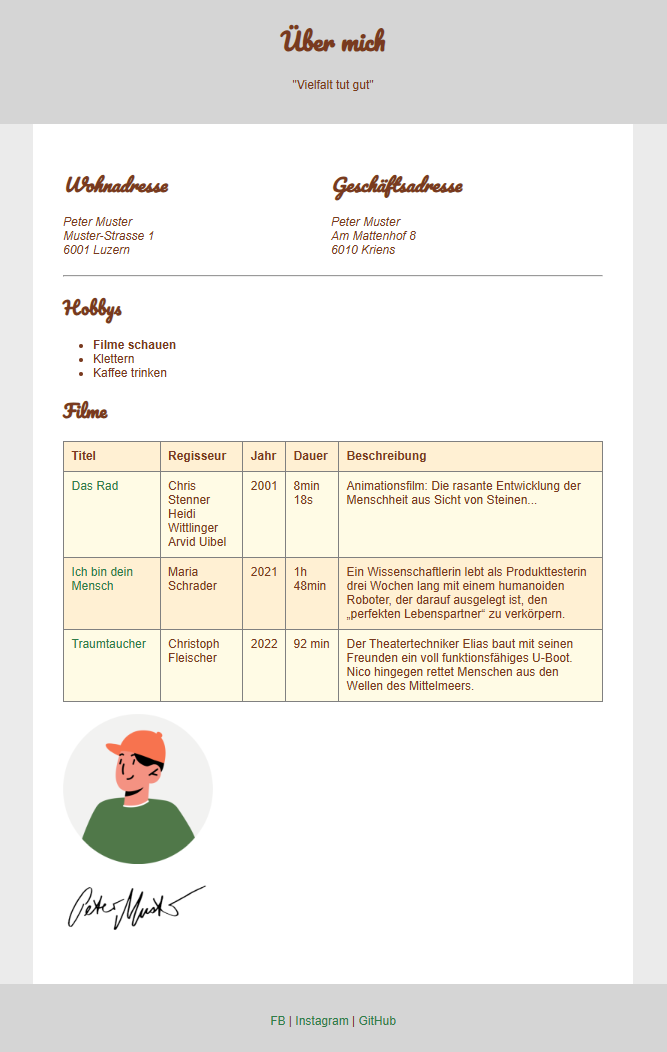
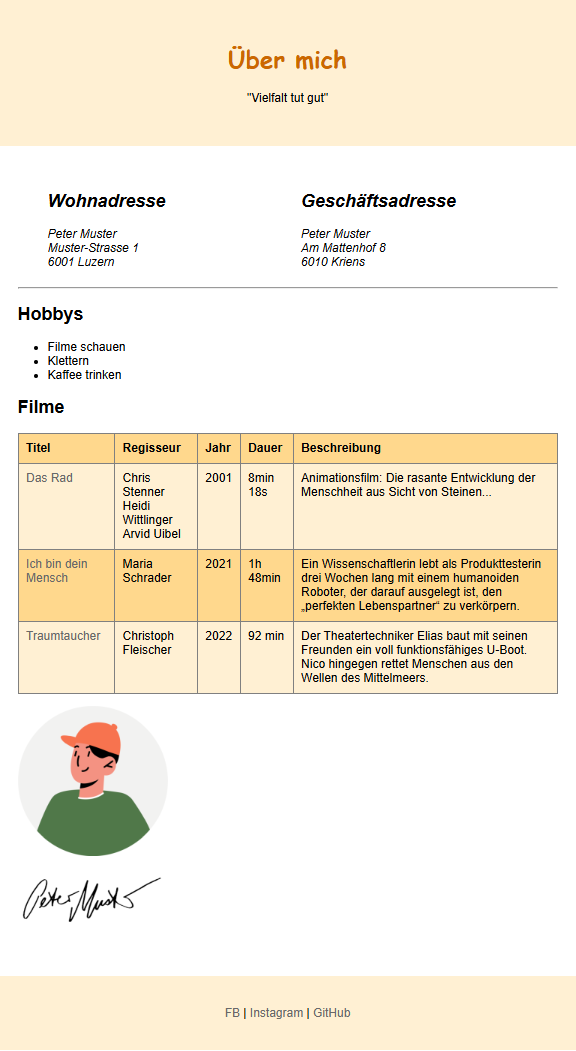
GITBOOK-169: change request with no subject merged in GitBook

diff --git a/tag-1/03-html/03-tabellen-and-listen.md b/tag-1/03-html/03-tabellen-and-listen.md
@@ -6,7 +6,7 @@ Listen verfügen über eine spezielle Anordnung der HTML-Elemente. Jede Liste wi
 
 {% columns %}
 {% column width="58.333333333333336%" %}
-HTML-Code:
+**HTML-Code:**
 
 ```html
 <ul>
@@ -20,12 +20,10 @@ HTML-Code:
     <li>Dritter Punkt</li>
 </ol>
 ```
-
-HTML-Code:
 {% endcolumn %}
 
 {% column width="41.666666666666664%" %}
-Resultat:
+**Resultat:**
 
 
 
@@ -37,7 +35,7 @@ Die Listen kann man beliebig verschachteln und die Listentypen auch mischen:
 
 {% columns %}
 {% column width="58.333333333333336%" %}
-HTML-Code:
+**HTML-Code:**
 
 ```html
 <ul>
@@ -66,12 +64,10 @@ HTML-Code:
     </li>
 </ol>
 ```
-
-HTML-Code:
 {% endcolumn %}
 
 {% column width="41.666666666666664%" %}
-Resultat:
+**Resultat:**
 
 
 
@@ -81,9 +77,9 @@ Resultat:
 
 ## Tabellen
 
-Eine Tabelle ist eine strukturierte Zusammenstellung von Daten in Spalten und Reihen.&#x20;
+Eine Tabelle ist eine strukturierte Zusammenstellung von Daten in Spalten und Reihen:&#x20;
 
-<div align="left"><img src="../../.gitbook/assets/tabelle (1).png" alt="Tabelle" width="344"></div>
+<table><thead><tr><th width="120">Name</th><th width="120">Alter</th></tr></thead><tbody><tr><td>Petra</td><td>15</td></tr><tr><td>Marion</td><td>18</td></tr><tr><td>Martin</td><td>17</td></tr></tbody></table>
 
 Der Inhalt jeder Tabelle wird von einem `<table>`-Tag umschlossen:
 
@@ -112,7 +108,7 @@ Wenn du den Code z.B. mit [Codepen](https://codepen.io/pen/) testest, wirst du f
 
 <table data-header-hidden><thead><tr><th width="90"></th><th width="90"></th><th width="90"></th><th width="90"></th><th width="90"></th><th width="90"></th><th width="90"></th><th width="90"></th></tr></thead><tbody><tr><td>Name</td><td>Alter</td><td>Petra</td><td>15</td><td>Marion</td><td>18</td><td>Martin</td><td>17</td></tr></tbody></table>
 
-#### Tabellen-Zeilen
+#### Tabellen-Zeilen (Rows)
 
 Um die Zellen in Reihe zu unterteilen, nutzen wir das `<tr>`-Tag ('table row'):
 
@@ -137,7 +133,7 @@ Um die Zellen in Reihe zu unterteilen, nutzen wir das `<tr>`-Tag ('table row'):
 </table>
 ```
 
-#### Spalten-Überschriften
+#### Spalten-Überschriften (Headings)
 
 Die erste Reihe eine Tabelle enthält oft keine Daten, sondern die Spaltenüberschriften. Dafür ist das `<th>`-Tag vorgesehen ('th' steht für 'Table Heading'):
 

diff --git a/tag-2/03-gestaltung/aufgaben.md b/tag-2/03-gestaltung/aufgaben.md
@@ -10,7 +10,7 @@ Füge deiner Webseite `about-me.html` eine individuelle Schrift hinzu:&#x20;
 
 ## Farben
 
-Nutze die [1. Flexbox-Aufgabe](broken-reference) für folgende Experimente:&#x20;
+Nutze die [1. Flexbox-Aufgabe](/broken/pages/-MMuVzA5N6G_vWOakQZw) für folgende Experimente:&#x20;
 
 1. Untersuche **im Browser** die Quader in der Flexbox, wähle eine andere Farbe mit dem Farbmischer und kopiere den neuen Wert in dein CSS. Probiere die rgb(...)- und die #xxxxxx-Variante aus.
 2. Mische eine Hintergrundfarbe für das ganze Dokument (`<body>`-Element) mittels der rgb()-Funktion.
@@ -23,11 +23,11 @@ Nutze die [1. Flexbox-Aufgabe](broken-reference) für folgende Experimente:&#x20
 
 ## Einheiten (optional)
 
-1. Skaliere ein Bild in deiner Seite "Über mich" mit verschiedenen Einheiten: `px, %, vw`&#x20;
-2. Füge ein breites Bild ein und mache das Fenster so schmal, bis das Bild nicht mehr Platz hat. Was passiert? Teste nun das gleiche, wenn du für das Bild `max-width: 100%` definierst.
-3. Teste zusätzlich zu `width` die CSS-Eigenschaft `min-width: 50%` oder `max-width: 50%` an einem Element.
+1. **Skaliere** ein Bild in deiner Seite "Über mich" mit verschiedenen Einheiten: `px, %, vw`&#x20;
+2. Teste, was `border-radius: 50%;` mit deinem Portraitbild macht.
+3. **Zu breite Bilder:** Füge ein breites Bild ein und mache das Fenster so schmal, bis das Bild nicht mehr Platz hat. Was passiert? Teste nun das gleiche, wenn du für alle Bilder `max-width: 100%` definierst. Welchen Selektor brauchst du, damit die Regel für alle Bilder gilt?&#x20;
+4. Teste zusätzlich zu `width` die CSS-Eigenschaft `min-width: 50%` oder `max-width: 50%` an einem Element.
 
 **Zusatzaufgabe:**
 
 * Teste verschiedene Funktionen für einen Textblock oder ein Bild: `min(), max(), calc(), clamp()`&#x20;
-

diff --git a/tag-1/04-css/02-einbindung.md b/tag-1/04-css/02-einbindung.md
@@ -1,23 +1,30 @@
-# 🔗 CSS-Datei einbinden
+# 🔗 CSS einbinden
 
 ## Wo kann CSS definiert werden?
 
 CSS-Regeln können an 3 Orten geschrieben werden:&#x20;
 
 **Extern in CSS-Datei(en)** mittels `<link>`-Element **(empfohlen)**: \
-Saubere Trennung von HTML & CSS, CSS kann von mehrere HTML-Dateien genutzt werden.\
-`<link href="css/style.css" rel="stylesheet">` <br>
+CSS in einer eigenen Datei wird im HTML-Dokument im `<head>` verlinkt.Dies bringt eine saubere Trennung von HTML & CSS und CSS kann von mehrere HTML-Dateien gemeinsam genutzt werden.
+
+```html
+<link href="css/style.css" rel="stylesheet">
+```
 
 **Intern** im HTML-Dokument mittels `<style>`-Abschnitt im `<head>` (nicht empfohlen): \
-Styles, welche nur auf dieser Seite verfügbar sind.\
-`<style>`\
-`.navi { color: green; }`\
-`</style>`\
-\
-<br>
+Styles, welche nur auf dieser Seite verfügbar sind.
 
-**Inline** als `style` Attribut im HTML-Tag (nicht empfohlen): \
-`<p style="font-weight: bold;">` <br>
+```html
+<style>
+  .navi { color: green; }
+</style>
+```
+
+**Inline** als `style` Attribut im HTML-Tag (nicht empfohlen):&#x20;
+
+```html
+ <p style="font-weight: bold;">
+```
 
 **Wichtig:** Inline-Styling sollte vermieden werden! Zweck von CSS ist es, Inhalt (HTML) und Styling (CSS) auseinander zu halten und Styles möglichst über die ganze Website einheitlich zu halten.&#x20;
 

diff --git a/tag-1/04-css/04-aufgabe-about-me-1.md b/tag-1/04-css/04-aufgabe-about-me-1.md
@@ -27,7 +27,7 @@ Style deine Website "Über mich" und ¨berprüfe nach jedem Schritt das Ergebnis
 
 1. Das erste Hobby soll eine fette Schrift haben, die anderen nicht (mit Pseudoselektor lösen)
 2. Färbe mit dem geeigneten Pseudoselektor den Hintergrund jeder 2. Zeile der Tabelle hellgelb.&#x20;
-3. Wende einen Filter auf dein Bild an: Normal soll es blass/heller oder sogar schwarz-weiss sein, wenn die Maus drüber fährt, soll es in den richtigen Farben erscheinen.&#x20;
+3. Setze für die Adressblöcke die Eigenschaft `display` auf `inline-block` und die Breite auf unter 40%. Was passiert?&#x20;
+4. Wende einen Filter auf dein Bild an: Normal soll es blass/heller oder sogar schwarz-weiss sein, wenn die Maus drüber fährt, soll es in den richtigen Farben erscheinen.&#x20;
 
 <figure><img src="../../.gitbook/assets/image (7).png" alt=""><figcaption></figcaption></figure>
-

diff --git a/SUMMARY.md b/SUMMARY.md
@@ -17,7 +17,7 @@
     * [🛠 Aufgabe "Über mich" strukturieren](tag-1/03-html/09-html-aufgabe-strukturieren.md)
   * [CSS](tag-1/04-css/README.md)
     * [📖 CSS-Gundlagen](tag-1/04-css/01-css-grundlagen.md)
-    * [🔗 CSS-Datei einbinden](tag-1/04-css/02-einbindung.md)
+    * [🔗 CSS einbinden](tag-1/04-css/02-einbindung.md)
     * [📖 CSS-Selektoren](tag-1/04-css/03-selektoren.md)
     * [📦 Boxmodell](tag-1/04-css/06-boxmodell.md)
     * [✅ CSS Validierung](tag-1/04-css/05-validierung.md)
